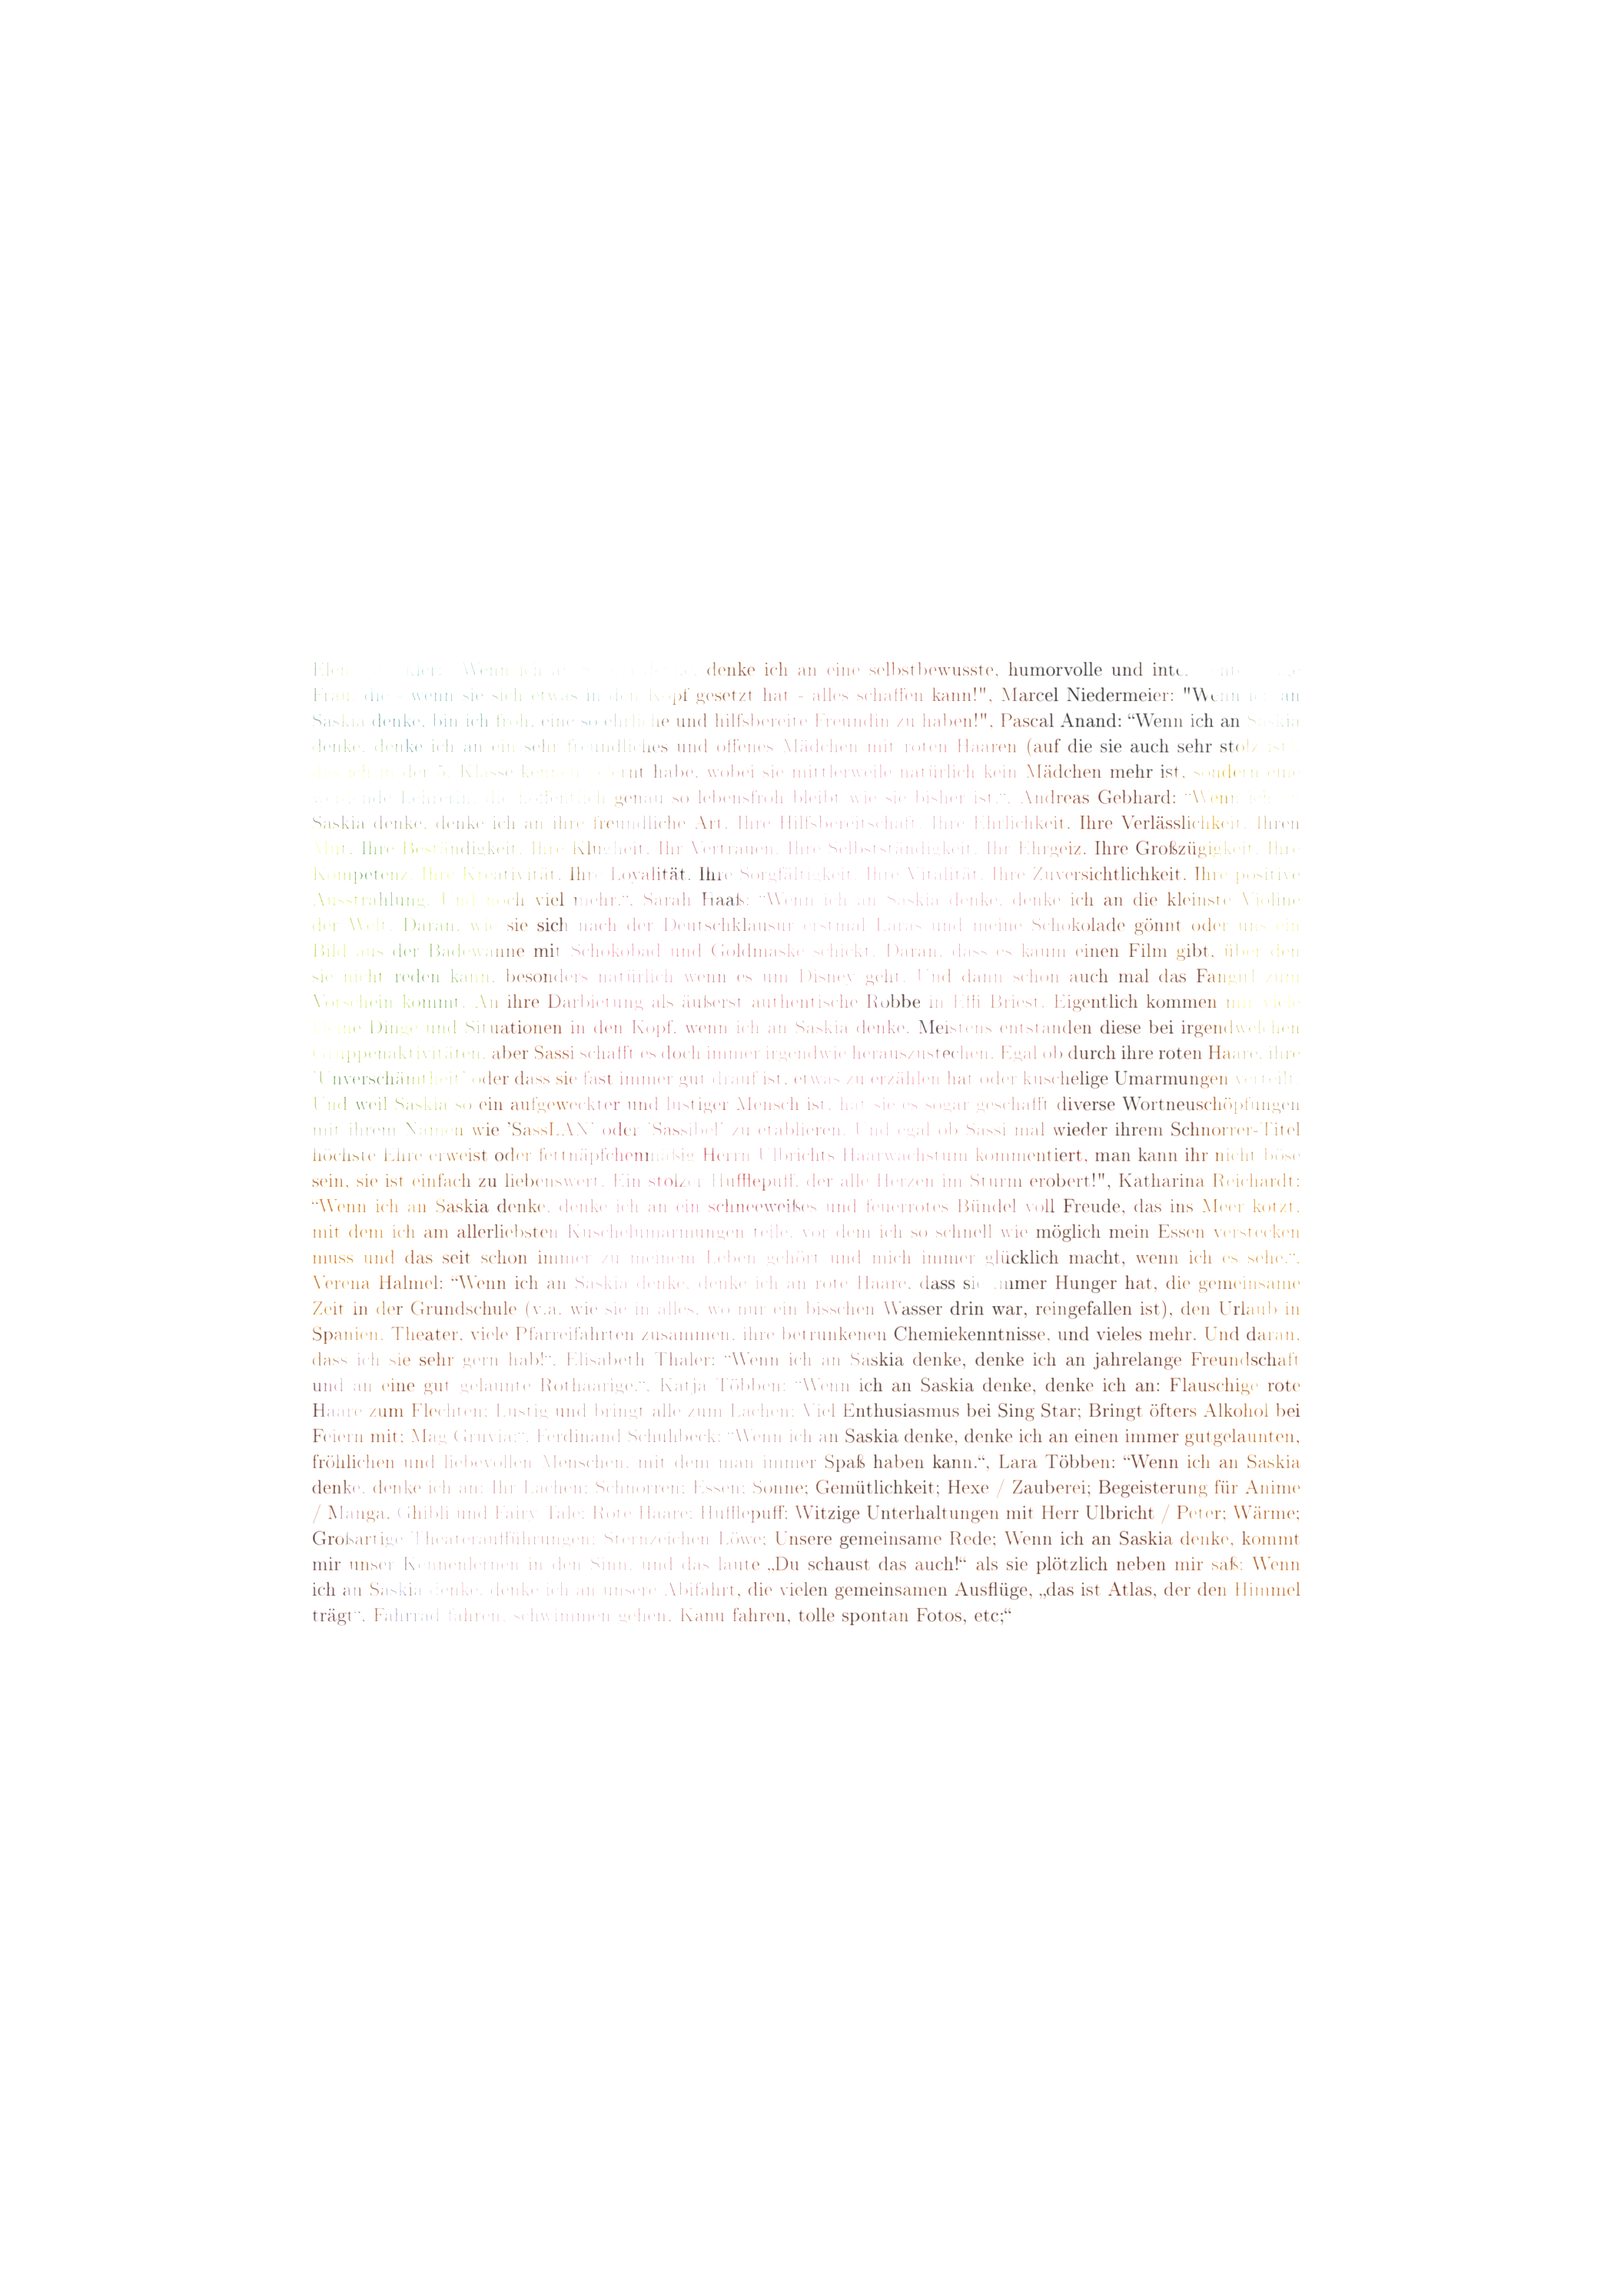
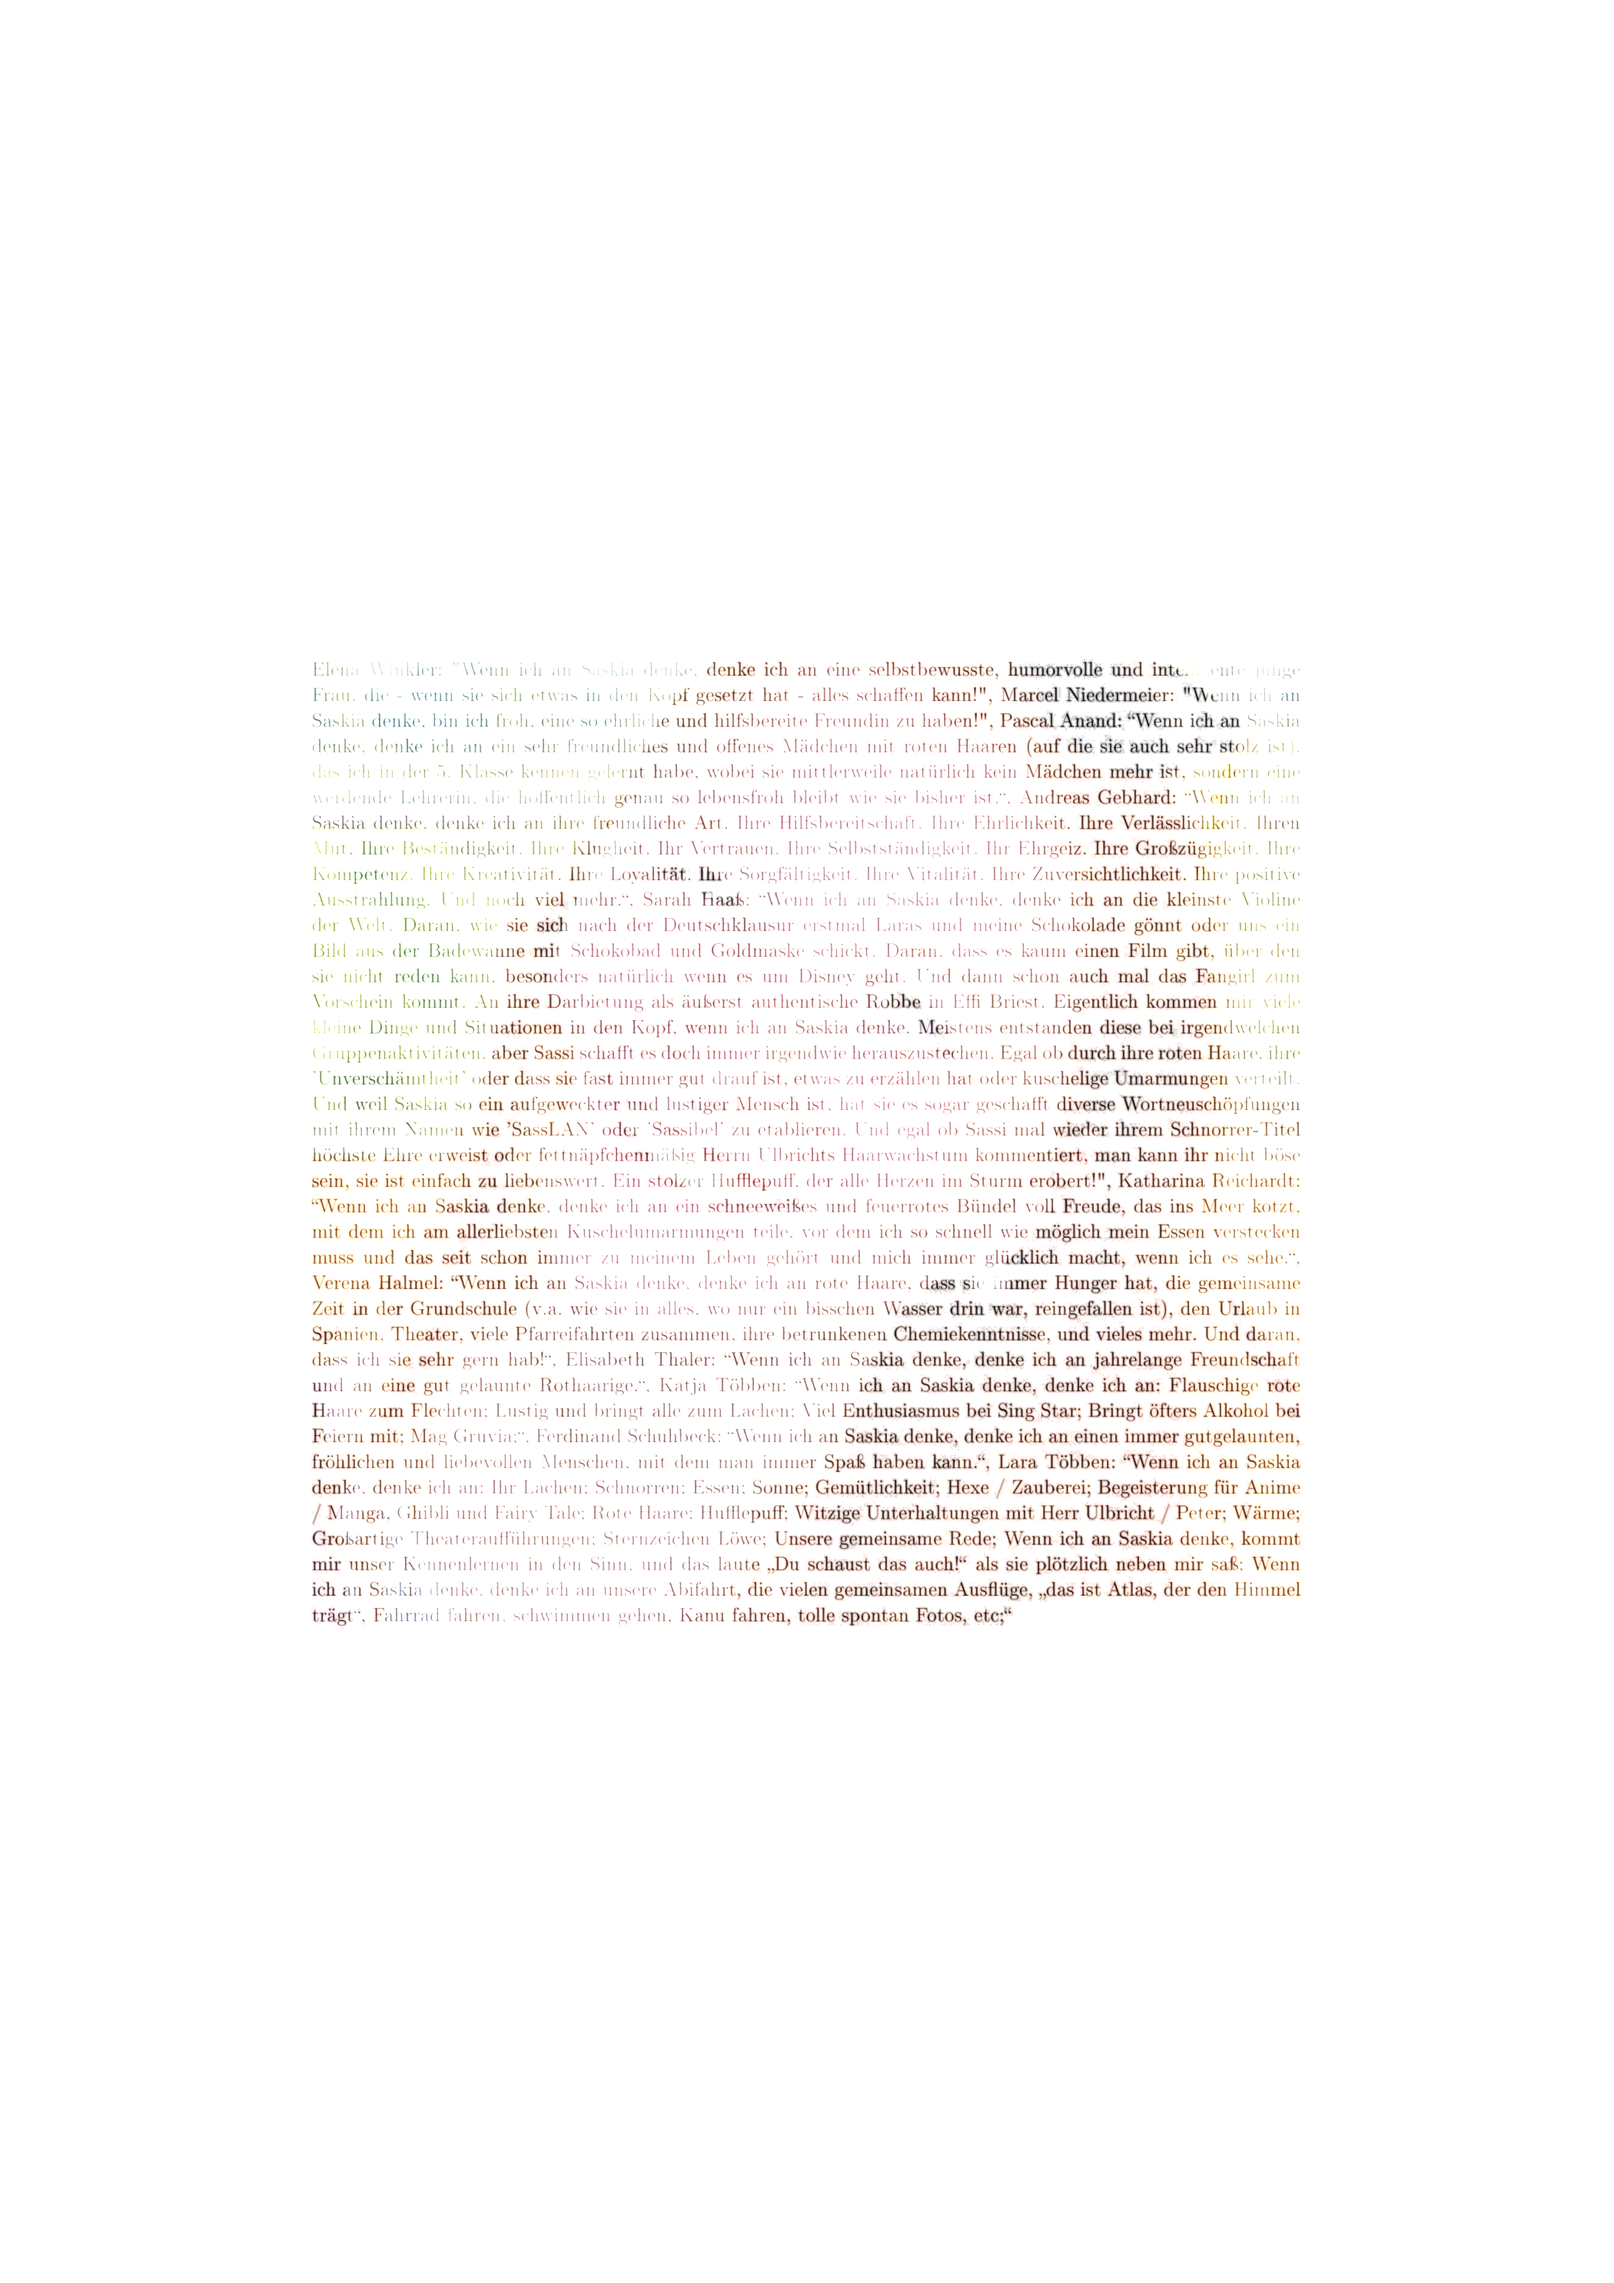
Filter

diff --git a/Saskia/Filter.py b/Saskia/Filter.py
@@ -6,12 +6,12 @@ path2 = "C:/Users/benni/PycharmProjects/BANDO/Saskia/B20001.png"  #hintergrund
 path3 = "C:/Users/benni/PycharmProjects/BANDO/Saskia/B30001.png"  #ergebniss
 
 
-text = Image.open(path1)
-hint = Image.open(path2)
+text = Image.open(path2)
+hint = Image.open(path1)
 
 
 x,y = text.size
-
+verd = 50
 
 res = Image.new("RGB",(x,y))
 
@@ -23,6 +23,9 @@ for xx in range(x):
         pixH = hint.getpixel((xx,yy))
 
         pixR = (pixT[0]+pixH[0],pixT[1]+pixH[1],pixT[2]+pixH[2])
+
+        if pixT[0] != 255:
+            pixR = (pixR[0]-verd,pixR[1]-verd,pixR[2]-verd)
 
         res.putpixel((xx,yy),pixR)
 
